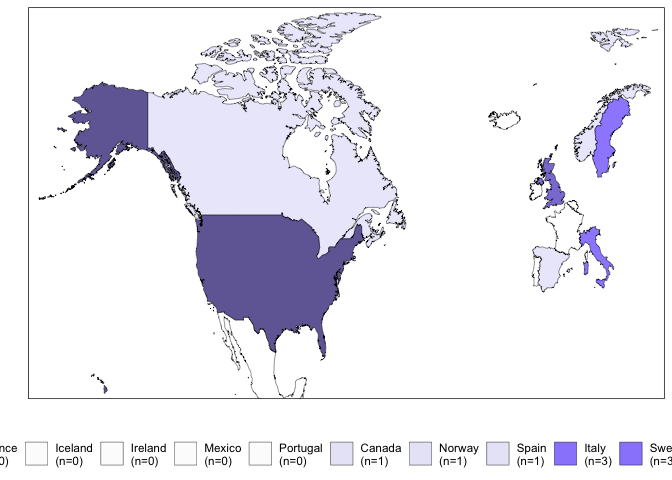
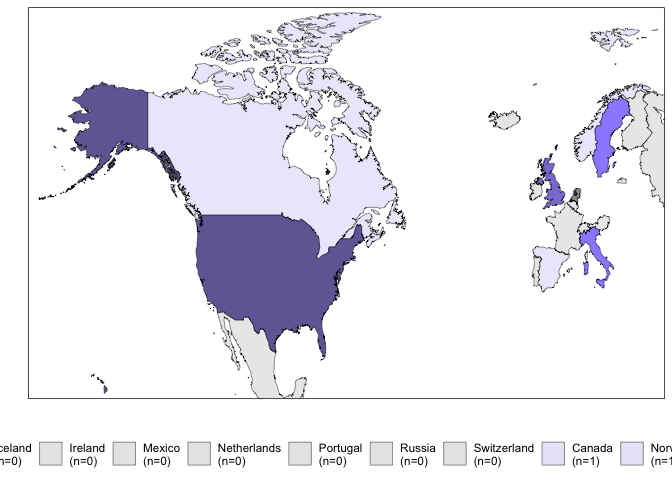
continued adding non intervention countries to choropleth

diff --git a/markdowns/visuals.md b/markdowns/visuals.md
@@ -85,13 +85,13 @@ ggplot(times.series,aes(x=year,y=cumul.freq,fill=fill)) +
 ## Looking at geospatial variation across studies
 
 ``` r
-intervention_map <- map_data("world", region=c("USA","Canada","Sweden","Spain","UK","Italy","Norway","Mexico","Portugal","France","Ireland","Iceland","Belgium"))
+intervention_map <- map_data("world", region=c("Austria","Belgium","Finland","France","Iceland","Ireland","Mexico","Netherlands","Portugal","Russia","Switzerland","Canada","Norway","Spain","Italy","Sweden","UK","USA"))
 ```
 
 ``` r
 ggplot(intervention_map,aes(x=long,y=lat,group=group,fill=region)) +
   geom_polygon(color="black",size=.15,alpha=0.8) +
-  scale_fill_manual(values=c("white","white","white","white","white","white","lavender","lavender","lavender","slateblue1","slateblue1","slateblue","slateblue4"),limits=c("Belgium","France","Iceland","Ireland","Mexico","Portugal","Canada","Norway","Spain","Italy","Sweden","UK","USA"),breaks=c("Belgium","France","Iceland","Ireland","Mexico","Portugal","Canada","Norway","Spain","Italy","Sweden","UK","USA"),labels=c("Belgium\n(n=0)","France\n(n=0)","Iceland\n(n=0)","Ireland\n(n=0)","Mexico\n(n=0)","Portugal\n(n=0)","Canada\n(n=1)","Norway\n(n=1)","Spain\n(n=1)","Italy\n(n=3)","Sweden\n(n=3)","UK\n(n=7)","USA\n(n=15)"),guide=guide_legend(title=NULL,nrow=1)) +
+  scale_fill_manual(values=c("gray90","gray90","gray90","gray90","gray90","gray90","gray90","gray90","gray90","gray90","gray90","lavender","lavender","lavender","slateblue1","slateblue1","slateblue","slateblue4"),limits=c("Austria","Belgium","Finland","France","Iceland","Ireland","Mexico","Nertherlands","Portugal","Russia","Switzerland","Canada","Norway","Spain","Italy","Sweden","UK","USA"),breaks=c("Austria","Belgium","Finland","France","Iceland","Ireland","Mexico","Nertherlands","Portugal","Russia","Switzerland","Canada","Norway","Spain","Italy","Sweden","UK","USA"),labels=c("Austria\n(n-0)","Belgium\n(n=0)","Finland\n(n=0)","France\n(n=0)","Iceland\n(n=0)","Ireland\n(n=0)","Mexico\n(n=0)","Netherlands\n(n=0)","Portugal\n(n=0)","Russia\n(n=0)","Switzerland\n(n=0)","Canada\n(n=1)","Norway\n(n=1)","Spain\n(n=1)","Italy\n(n=3)","Sweden\n(n=3)","UK\n(n=7)","USA\n(n=15)"),guide=guide_legend(title=NULL,nrow=1)) +
   xlab(" ") + 
   ylab(" ") +
   coord_cartesian(xlim=c(-172,26),ylim=c(21,81)) +
